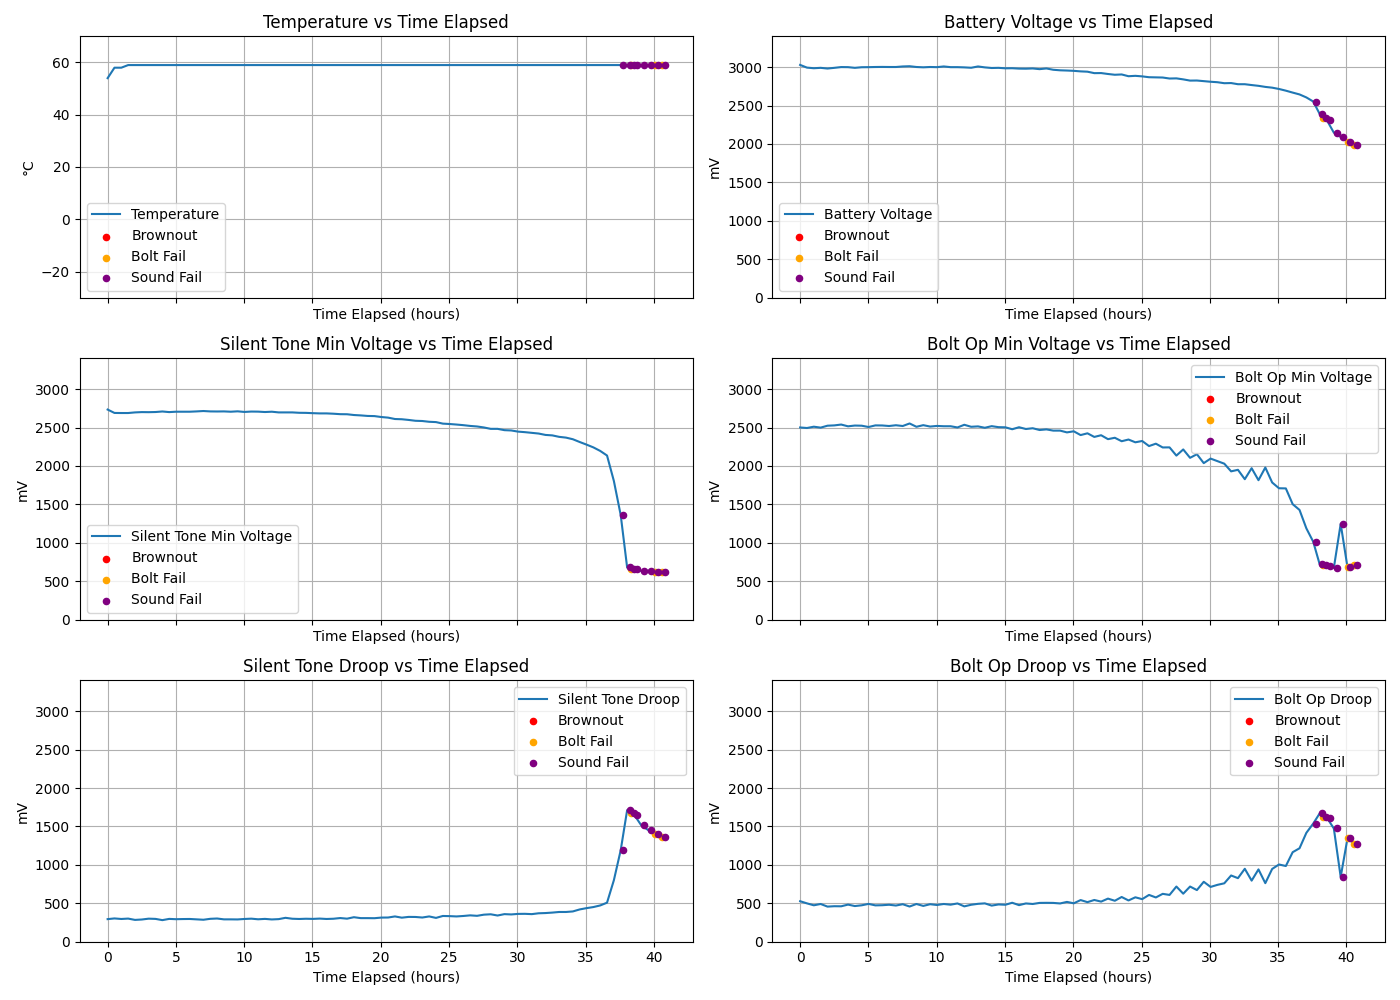
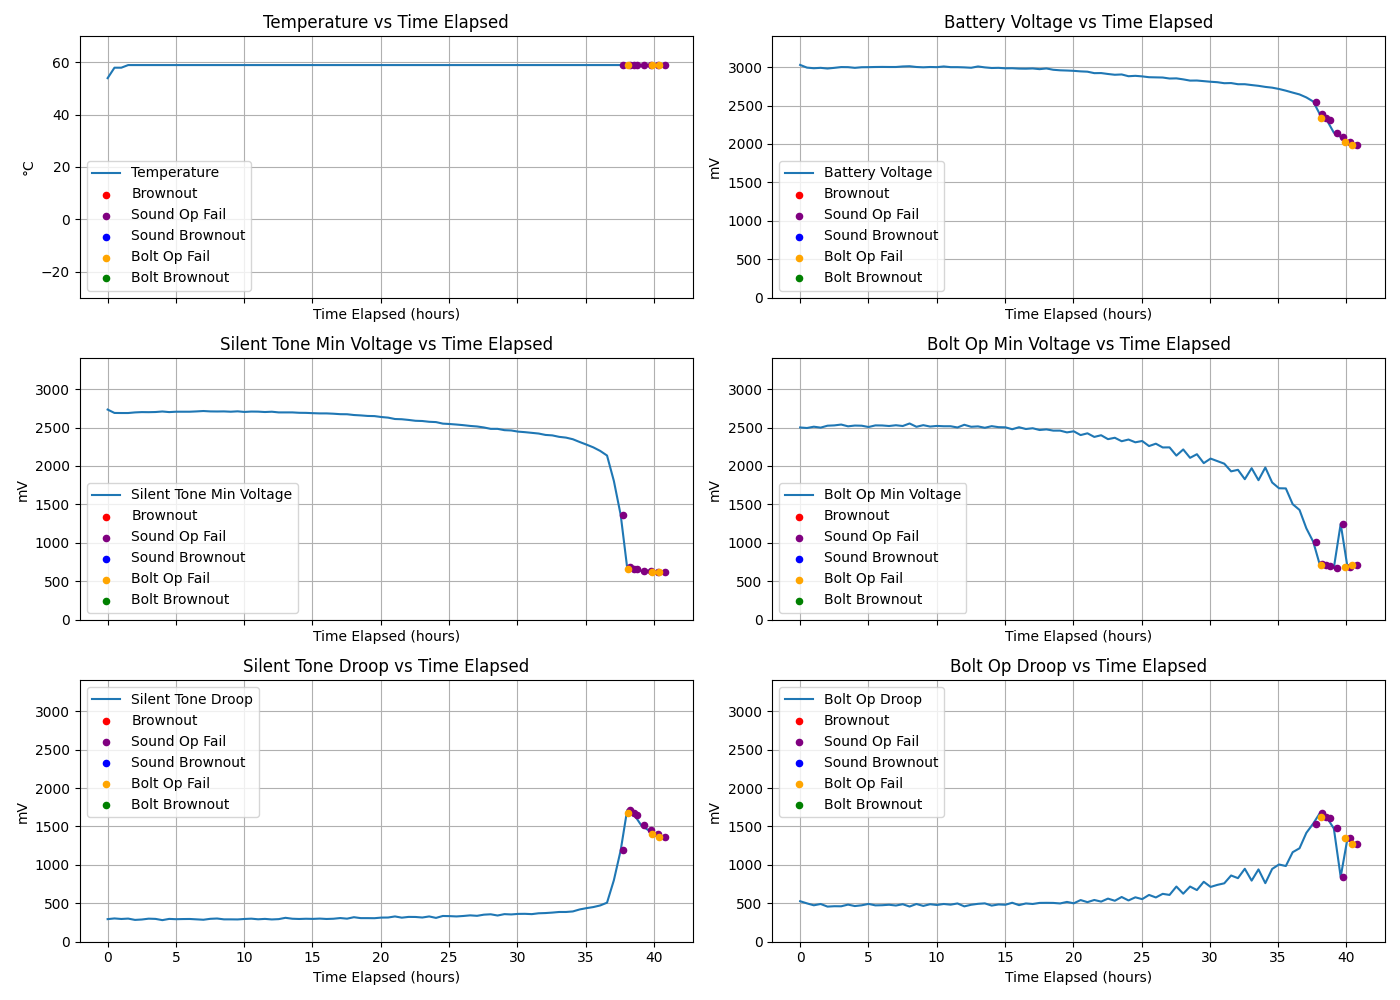
BE-6 Updated

diff --git a/data_parser.py b/data_parser.py
@@ -62,9 +62,11 @@ def main():
     df["boltDroopMag_mV"] = df["batt_mV"] - df["boltDroop_mV"]
 
     # Decode fault bitfields
-    df["fault_brownout"] = (df["faults"] & 0x01) > 0
-    df["fault_bolt"]     = (df["faults"] & 0x02) > 0
-    df["fault_sound"]    = (df["faults"] & 0x04) > 0
+    df["fault_brownout"] = (df["faults"] & (1 << 0)) > 0
+    df["fault_bolt"] = (df["faults"] & (1 << 1)) > 0
+    df["fault_sound"] = (df["faults"] & (1 << 2)) > 0
+    df["fault_sound_brownout"] = (df["faults"] & (1 << 3)) > 0
+    df["fault_bolt_brownout"] = (df["faults"] & (1 << 4)) > 0
 
     filename = f"{product_name}_{hw_rev}_{dut_id}_{date_str}_droop{droop_volume}_load{load_volume}_loaddur{load_dur}_relaxdur{relax_dur}_boltchecks{bolt_checks}"
 
@@ -105,16 +107,26 @@ def main():
 
         # Add fault annotations with slight horizontal offsets
         ax.scatter(df[time_col][df["fault_brownout"]] - offset,
-                   df[col][df["fault_brownout"]],
-                   color="red", label="Brownout", zorder=5, s=dot_size)
+               df[col][df["fault_brownout"]],
+               color="red", label="Brownout", zorder=5, s=dot_size)
 
-        ax.scatter(df[time_col][df["fault_bolt"]],
-                   df[col][df["fault_bolt"]],
-                   color="orange", label="Bolt Fail", zorder=5, s=dot_size)
-
+        # Plot sound faults first
         ax.scatter(df[time_col][df["fault_sound"]] + offset,
-                   df[col][df["fault_sound"]],
-                   color="purple", label="Sound Fail", zorder=5, s=dot_size)
+               df[col][df["fault_sound"]],
+               color="purple", label="Sound Op Fail", zorder=5, s=dot_size)
+
+        ax.scatter(df[time_col][df["fault_sound_brownout"]] + 2*offset,
+               df[col][df["fault_sound_brownout"]],
+               color="blue", label="Sound Brownout", zorder=5, s=dot_size)
+
+        # Then plot bolt faults
+        ax.scatter(df[time_col][df["fault_bolt"]] - offset,
+               df[col][df["fault_bolt"]],
+               color="orange", label="Bolt Op Fail", zorder=5, s=dot_size)
+
+        ax.scatter(df[time_col][df["fault_bolt_brownout"]] - 2*offset,
+               df[col][df["fault_bolt_brownout"]],
+               color="green", label="Bolt Brownout", zorder=5, s=dot_size)
 
         ax.set_title(f"{param} vs Time Elapsed")
         ax.set_ylabel(unit)
